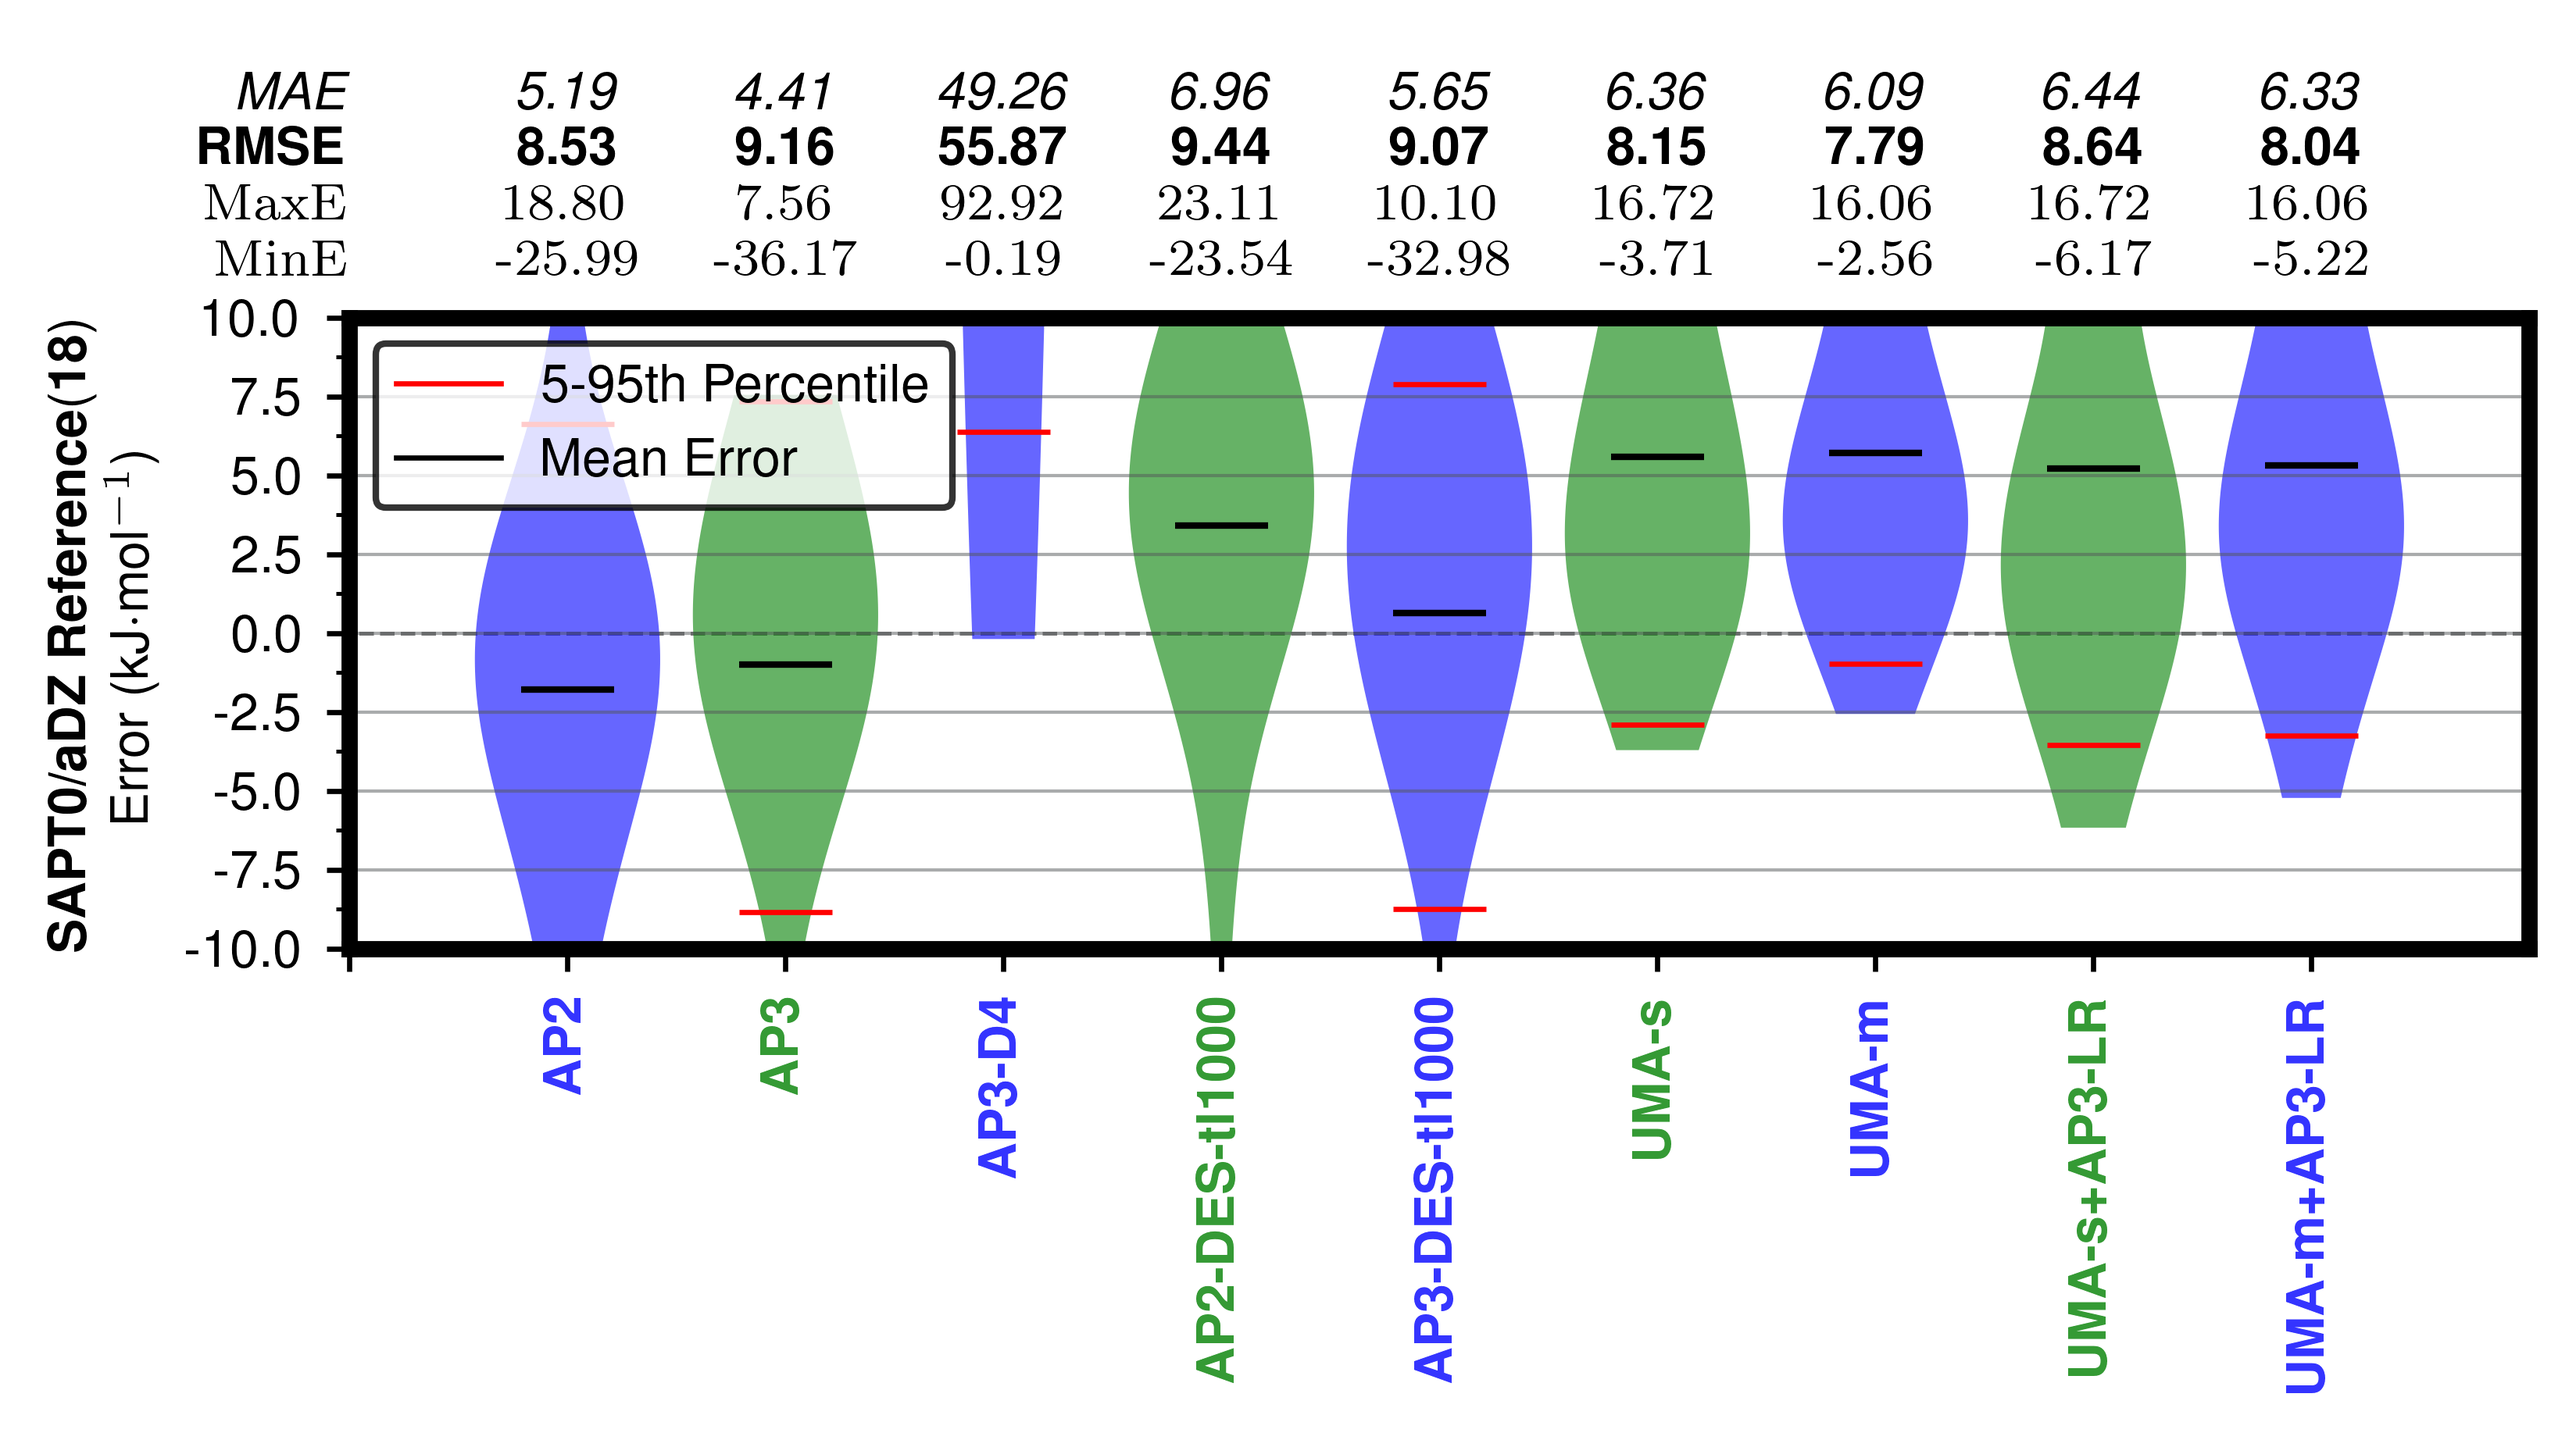
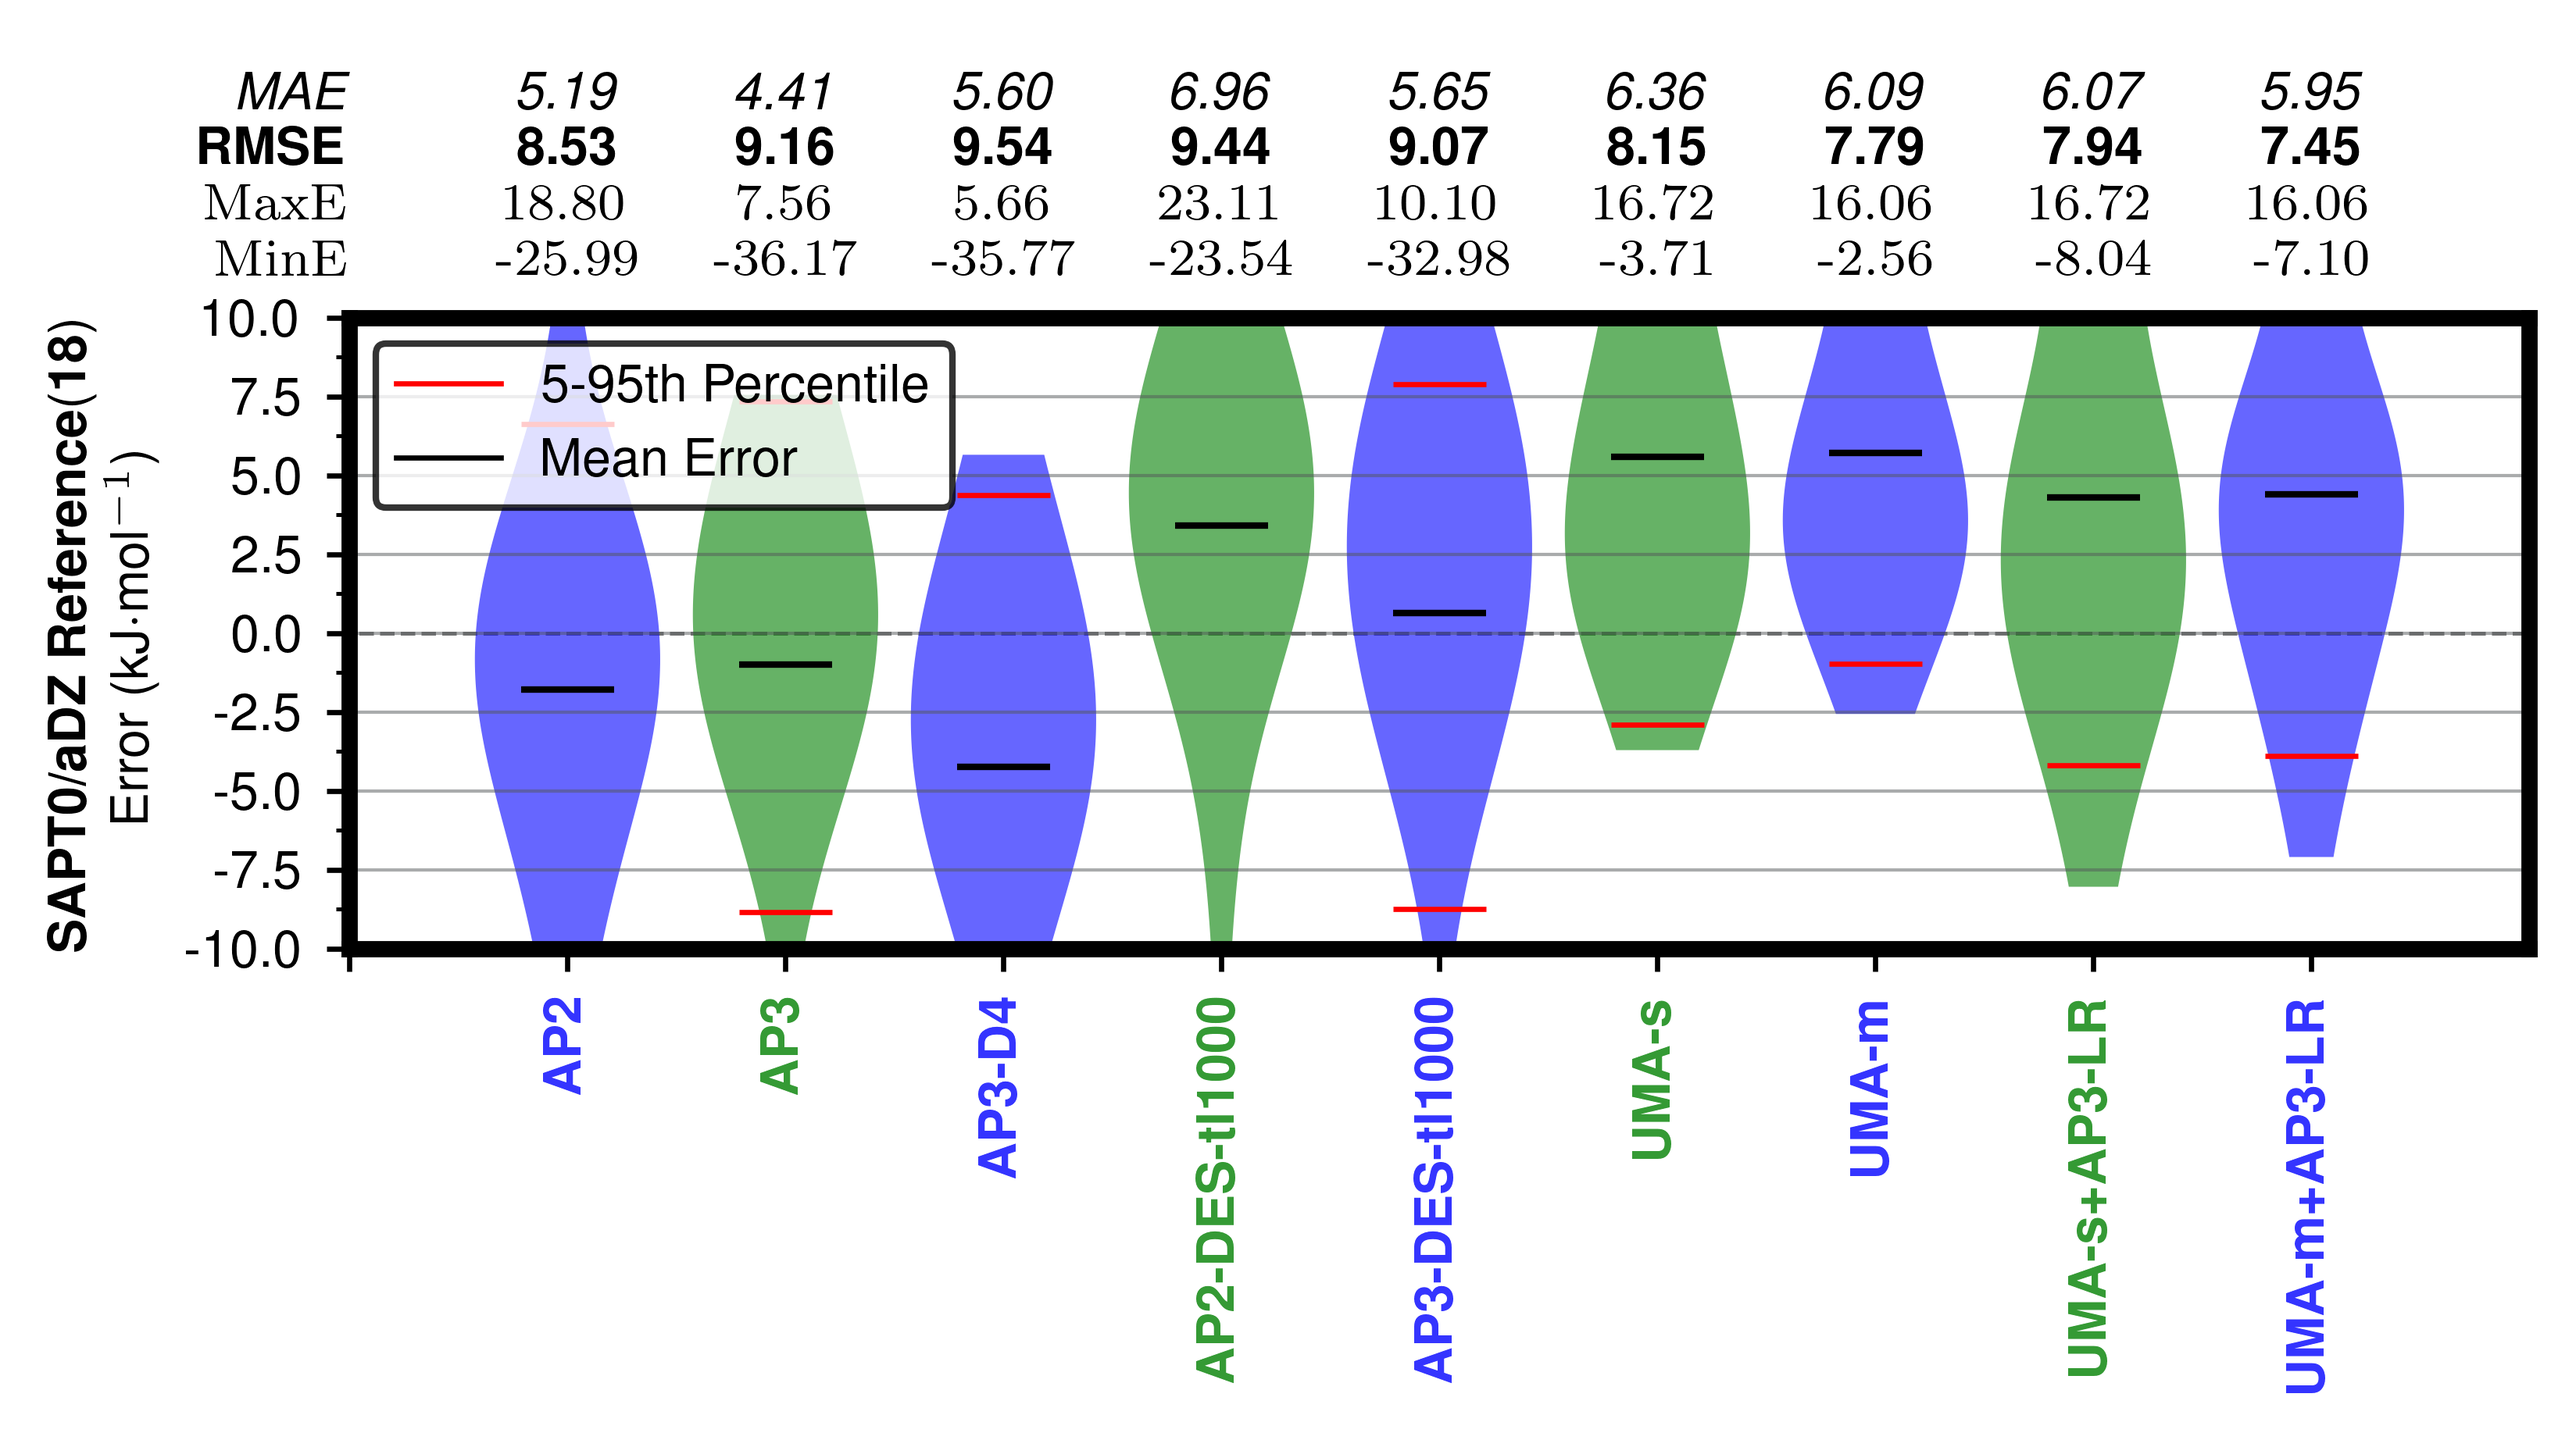
corrected d4 energies

diff --git a/crystals/crystal_dftd.py b/crystals/crystal_dftd.py
@@ -8,10 +8,12 @@ import subprocess
 import json
 from qm_tools_aw import tools
 import pydispersion
+from pprint import pprint as pp
 
 eV_to_kcalmol = qcel.constants.conversion_factor("eV", "kcal/mol")
 eV_to_kJmol = qcel.constants.conversion_factor("eV", "kJ/mol")
 kcalmol_to_kjmol = qcel.constants.conversion_factor("kcal/mol", "kJ/mol")
+ha_to_kjmol = qcel.constants.conversion_factor("hartree", "kJ/mol")
 
 crystal_names_all = [
     "14-cyclohexanedione",
@@ -93,7 +95,7 @@ def calc_dftd4_c6_c8_pairDisp2(
         str(charges[0]),
         "--pair-resolved",
     ]
-    # print(" ".join(args))
+    print(" ".join(args))
     v = subprocess.call(
         args=args,
         shell=False,
@@ -115,7 +117,7 @@ def calc_dftd4_c6_c8_pairDisp2(
     # os.remove(input_xyz)
     # os.remove("C_n.json")
     # os.remove("pairs.json")
-    os.remove(".EDISP")
+    # os.remove(".EDISP")
     if C6s_ATM:
         with open("C_n_ATM.json") as f:
             cs = json.load(f)
@@ -145,6 +147,7 @@ def calc_dftd4_c6_for_d_a_b(
         charges[1],
         p=p,
         dftd4_bin=dftd4_bin,
+        input_xyz="monA.xyz",
     )
     C6s_mB, _, _, _ = calc_dftd4_c6_c8_pairDisp2(
         pB,
@@ -152,6 +155,7 @@ def calc_dftd4_c6_for_d_a_b(
         charges[2],
         p=p,
         dftd4_bin=dftd4_bin,
+        input_xyz="monB.xyz",
     )
     C6s_dimer, _, _, df_c_e = calc_dftd4_c6_c8_pairDisp2(
         pD,
@@ -159,6 +163,7 @@ def calc_dftd4_c6_for_d_a_b(
         charges[0],
         p=p,
         dftd4_bin=dftd4_bin,
+        input_xyz="dimer.xyz",
     )
     return C6s_dimer, C6s_mA, C6s_mB
 
@@ -212,8 +217,8 @@ def dftd4_df_energies_supermolecular(v="apprx"):
     mol_str = "mol " + v
     pkl_fn = f"crystals_c6s_d4_i_{mol_str.replace(' ', '_')}.pkl"
     df = pd.read_pickle(pkl_fn)
-    params = np.array([1.0, 0.829861, 0.706055, 1.123903], dtype=np.float64)
-
+    # params = np.array([1.0, 0.829861, 0.706055, 1.123903], dtype=np.float64)
+    params = np.array([1.0, 1.61679827, 0.44959224, 3.35743605], dtype=np.float64)
     def interaction_energy(mol, c6s, c6s_A, c6s_B):
         geom, pD, cD, ma, mb, charges = tools.mol_to_pos_carts_ma_mb(
             mol, units_angstroms=False
@@ -259,7 +264,7 @@ def dftd4_df_energies_supermolecular(v="apprx"):
         df_c_a = df.loc[crystal_indices].copy()
         df_c_a.sort_values(by=mms_col, inplace=True)
         print(f"\nProcessing crystal: {n} {c} with {len(df_c_a)} entries")
-        uma_energies = []
+        dftd4_energies = []
         cnt = 0
         for i, row in df_c_a.iterrows():
             print(f"{cnt:4d} / {len(df_c_a):4d}, {time() - t1:.2f} seconds", end="\r")
@@ -269,26 +274,26 @@ def dftd4_df_energies_supermolecular(v="apprx"):
             c6s_A = row["C6_A"]
             c6s_B = row["C6_B"]
             int_energy, eAB, eA, eB = interaction_energy(mol, c6s, c6s_A, c6s_B)
-            uma_energies.append(
+            dftd4_energies.append(
                 {
                     "index": i,
-                    "int_energy": int_energy * kcalmol_to_kjmol,
-                    "eAB": eAB * kcalmol_to_kjmol,
-                    "eA": eA * kcalmol_to_kjmol,
-                    "eB": eB * kcalmol_to_kjmol,
+                    "int_energy": int_energy * ha_to_kjmol,
+                    "eAB": eAB * ha_to_kjmol,
+                    "eA": eA * ha_to_kjmol,
+                    "eB": eB * ha_to_kjmol,
                 }
             )
         df.loc[df_c_a.index, f"{dftd4_type} IE (kJ/mol)"] = [
-            ue["int_energy"] for ue in uma_energies
+            ue["int_energy"] for ue in dftd4_energies
         ]
         df.loc[df_c_a.index, f"{dftd4_type} dimer (kJ/mol)"] = [
-            ue["eAB"] for ue in uma_energies
+            ue["eAB"] for ue in dftd4_energies
         ]
         df.loc[df_c_a.index, f"{dftd4_type} monomer A (kJ/mol)"] = [
-            ue["eA"] for ue in uma_energies
+            ue["eA"] for ue in dftd4_energies
         ]
         df.loc[df_c_a.index, f"{dftd4_type} monomer B (kJ/mol)"] = [
-            ue["eB"] for ue in uma_energies
+            ue["eB"] for ue in dftd4_energies
         ]
         print(f"Completed crystal in {time() - t1:.2f} seconds")
 
@@ -311,6 +316,11 @@ def merge_dftd4_results(v="apprx"):
     pkl_fn_d4_i = f"crystals_c6s_d4_i_mol_{v}.pkl"
     df_d4_i = pd.read_pickle(pkl_fn_d4_i)
     # merge by index
+    df.drop(
+        ['d4_s IE (kJ/mol)', 'd4_s dimer (kJ/mol)', 'd4_s monomer A (kJ/mol)', 'd4_s monomer B (kJ/mol)', 'd4_s_le_contribution'],
+        axis=1,
+        inplace=True,
+    )
     df = df.join(
         df_d4_i[
             [
@@ -322,18 +332,24 @@ def merge_dftd4_results(v="apprx"):
             ]
         ],
     )
+    # pd print .4f 
+    print_options = pd.get_option("display.float_format")
+    pd.set_option("display.float_format", "{:.4f}".format)
+    df['d'] = df["Minimum Monomer Separations (A) sapt0-dz-aug"]
+    print(df[[f'crystal {v}', 'd', 'd4_s IE (kJ/mol)', 'AP3 DISP']])
+    print(df[['d', 'd4_s IE (kJ/mol)', 'AP3 DISP', 'd4_s dimer (kJ/mol)', 'd4_s monomer A (kJ/mol)', 'd4_s monomer B (kJ/mol)']])
     print(df)
     df.to_pickle(f"./crystals_ap2_ap3_des_results_mol_{v}.pkl")
     return df
 
 
 def main():
-    df_d4 = dftd4_df_c6s(generate=True, v="apprx", dftd4_type="d4_i")
+    # df_d4 = dftd4_df_c6s(generate=True, v="apprx", dftd4_type="d4_i")
     df_d4 = dftd4_df_energies_supermolecular(v="apprx")
     df_merged = merge_dftd4_results('apprx')
 
-    print("BM")
-    df_d4 = dftd4_df_c6s(generate=True, v="bm", dftd4_type="d4_i")
+    # print("BM")
+    # df_d4 = dftd4_df_c6s(generate=True, v="bm", dftd4_type="d4_i")
     df_d4 = dftd4_df_energies_supermolecular(v="bm")
     df_merged = merge_dftd4_results('bm')
 
